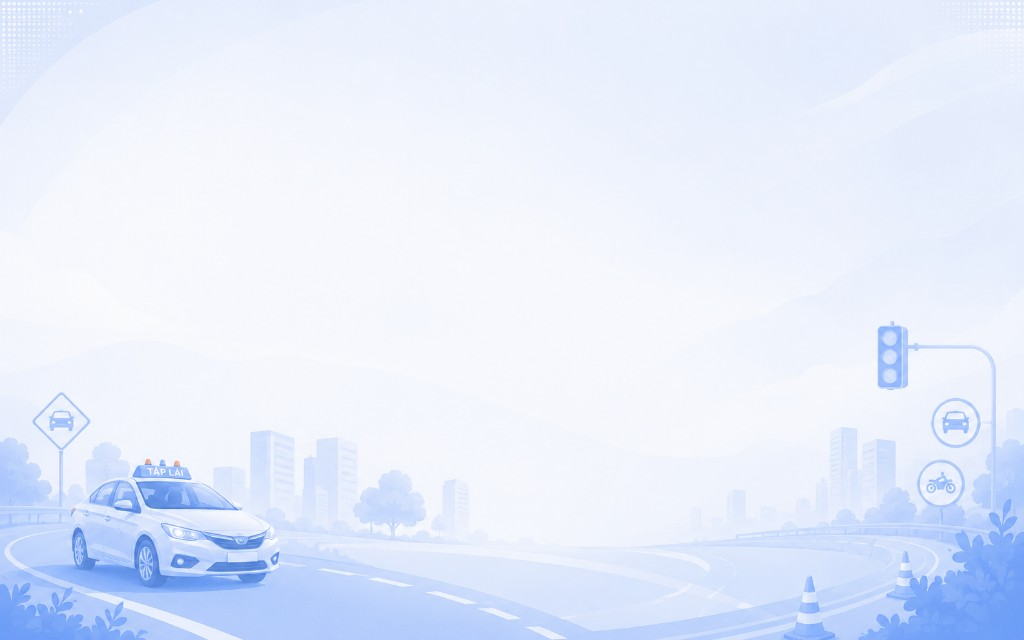
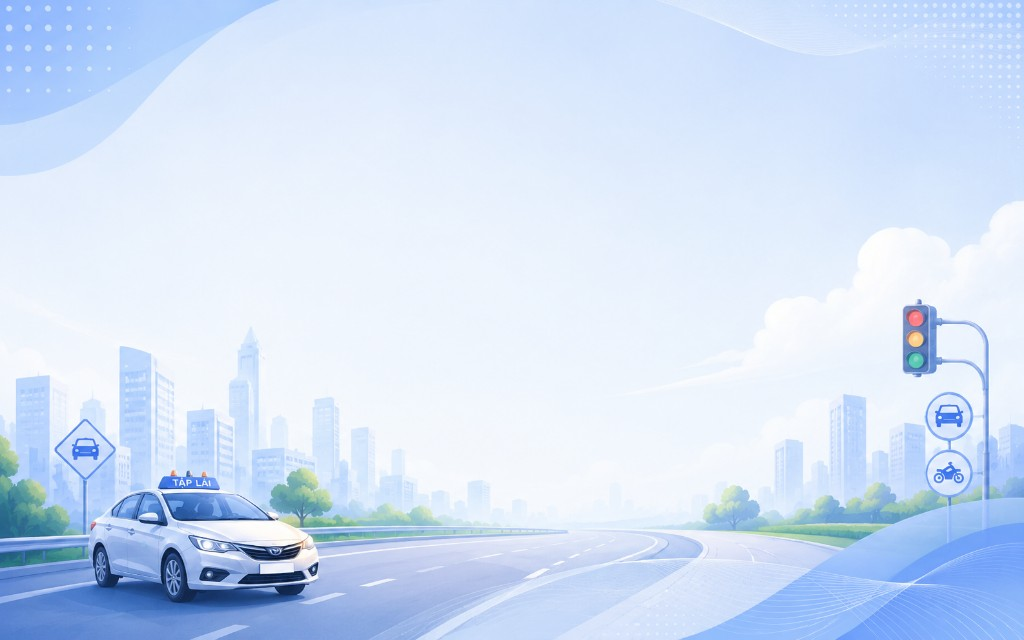
Cap nhat anh nen moi (duong cao toc + TẬP LÁI).
Doi bg-landing.png, dieu chinh lop phu va service worker v13.

diff --git a/public/css/style.css b/public/css/style.css
@@ -50,10 +50,10 @@ body::after {
   z-index: -1;
   background: linear-gradient(
     180deg,
-    rgba(255, 255, 255, 0.82) 0%,
-    rgba(255, 255, 255, 0.55) 35%,
-    rgba(244, 247, 251, 0.35) 70%,
-    rgba(244, 247, 251, 0.2) 100%
+    rgba(255, 255, 255, 0.72) 0%,
+    rgba(255, 255, 255, 0.45) 30%,
+    rgba(244, 247, 251, 0.28) 65%,
+    rgba(244, 247, 251, 0.15) 100%
   );
   pointer-events: none;
 }

diff --git a/public/index.html b/public/index.html
@@ -374,7 +374,7 @@
   <script src="/js/app.js"></script>
   <script>
     if ("serviceWorker" in navigator) {
-      navigator.serviceWorker.register("/sw.js?v=12").then(reg => {
+      navigator.serviceWorker.register("/sw.js?v=13").then(reg => {
         reg.update();
       }).catch(() => {});
     }

diff --git a/public/sw.js b/public/sw.js
@@ -1,4 +1,4 @@
-const CACHE_NAME = "bang-lai-v12";
+const CACHE_NAME = "bang-lai-v13";
 const ASSETS = [
   "/",
   "/index.html",